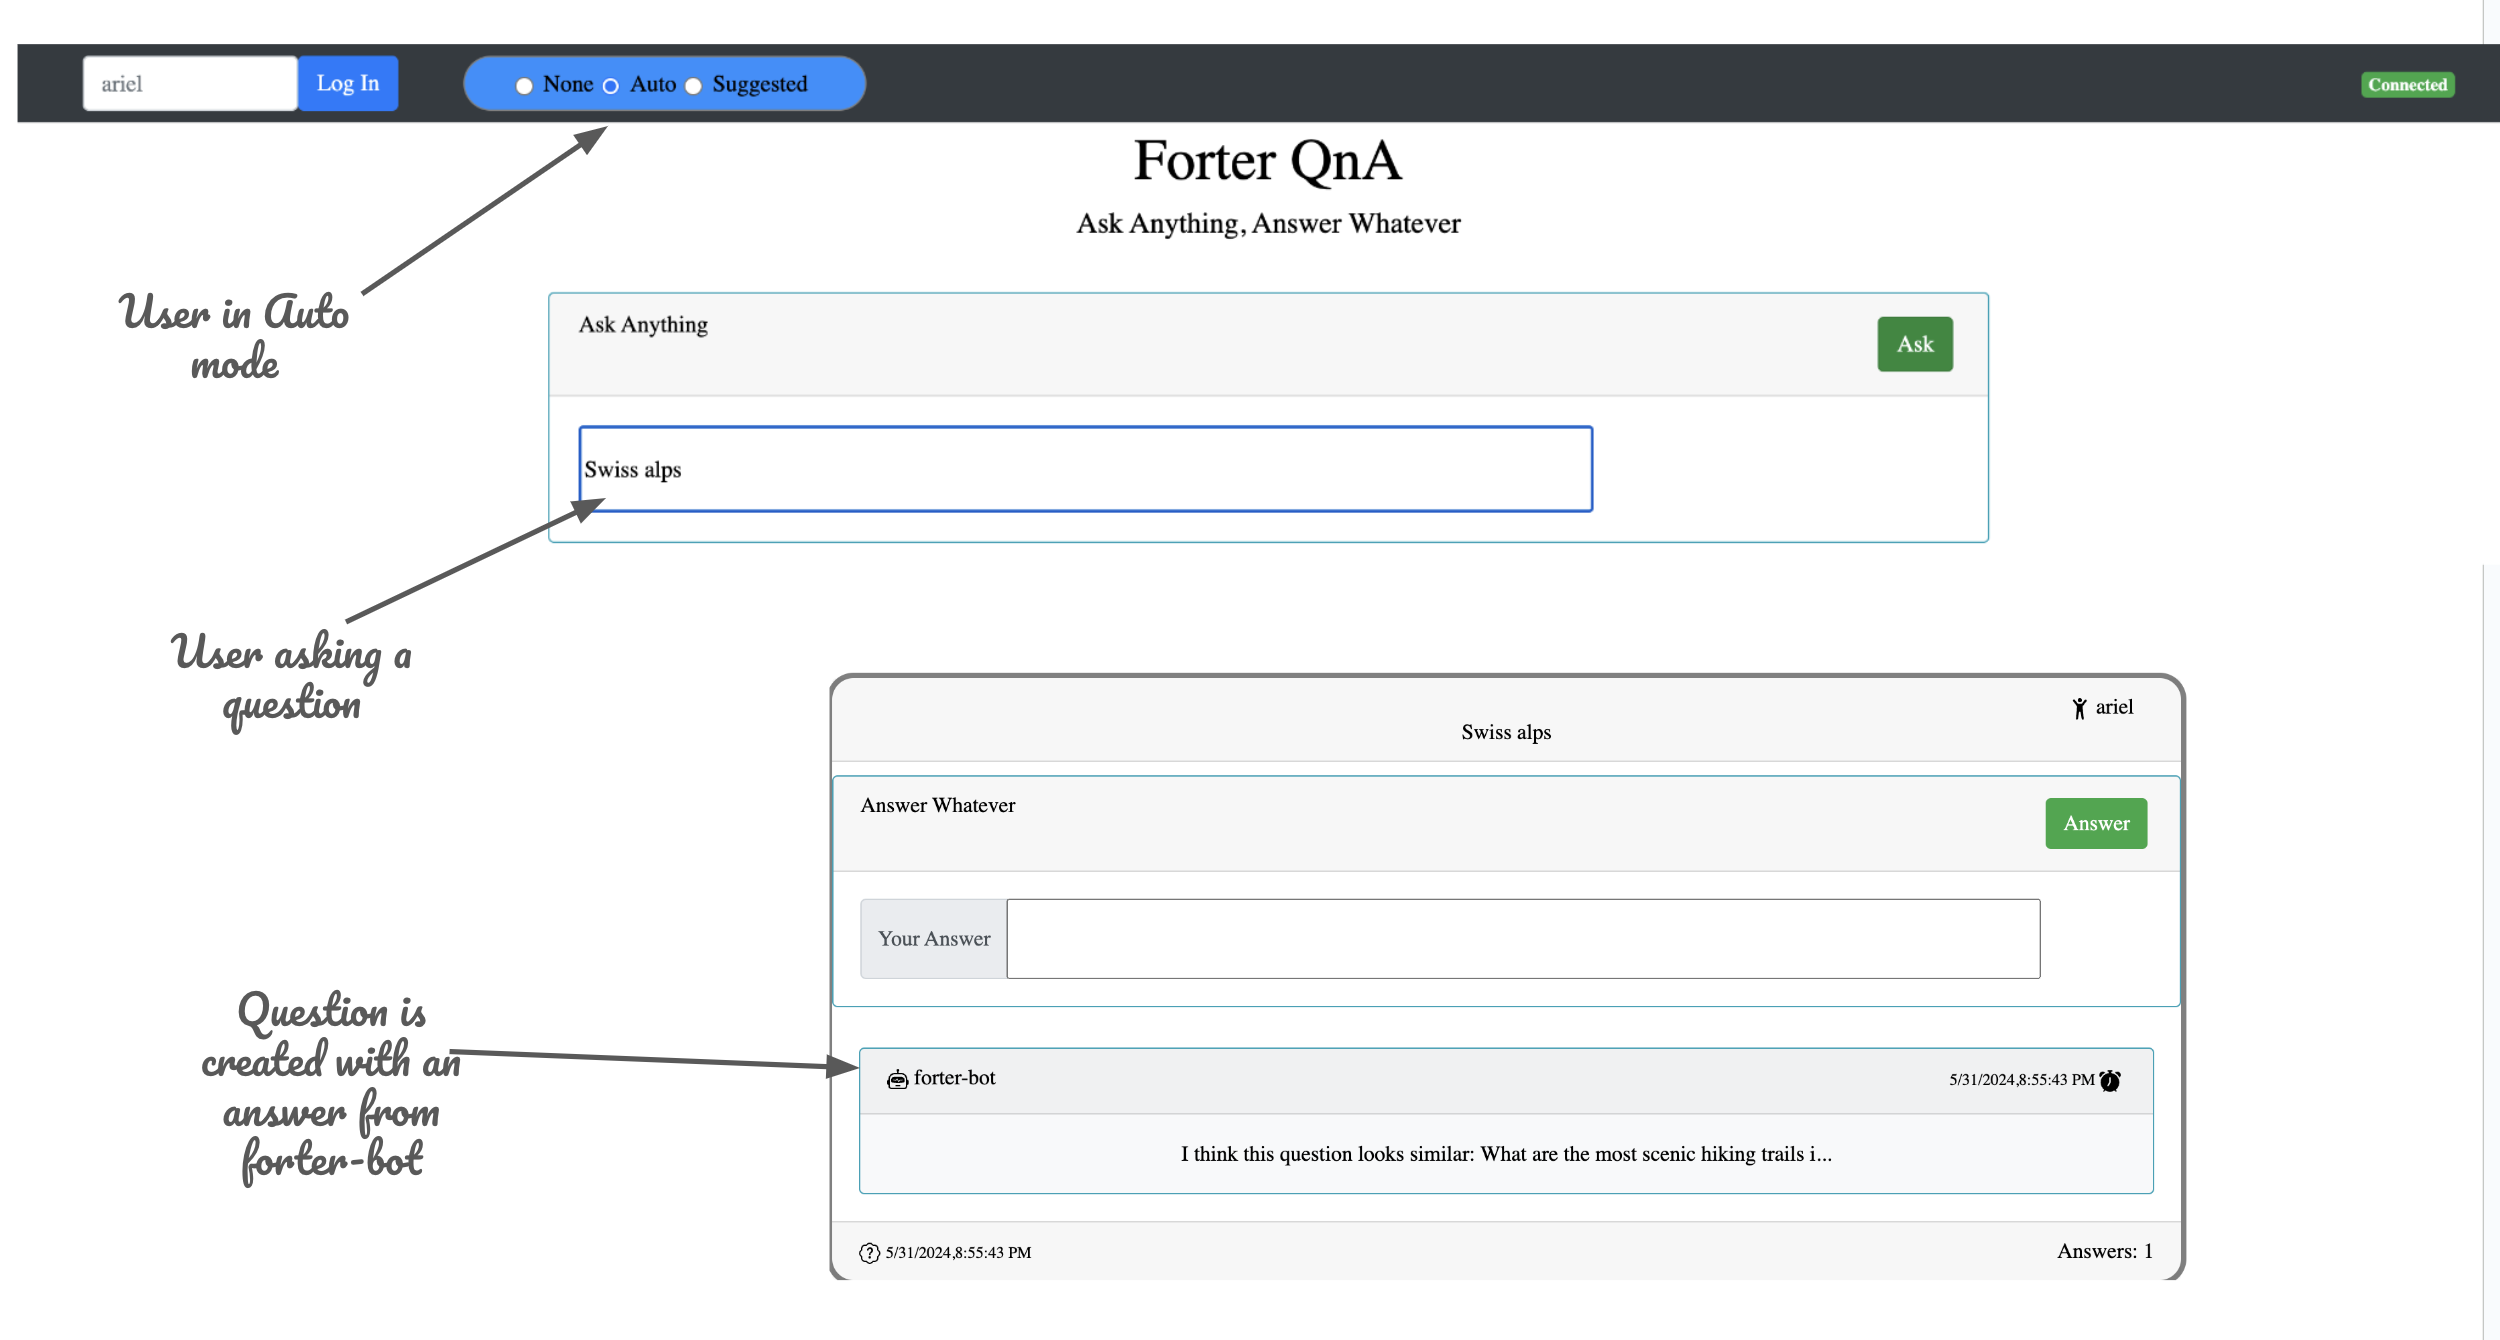
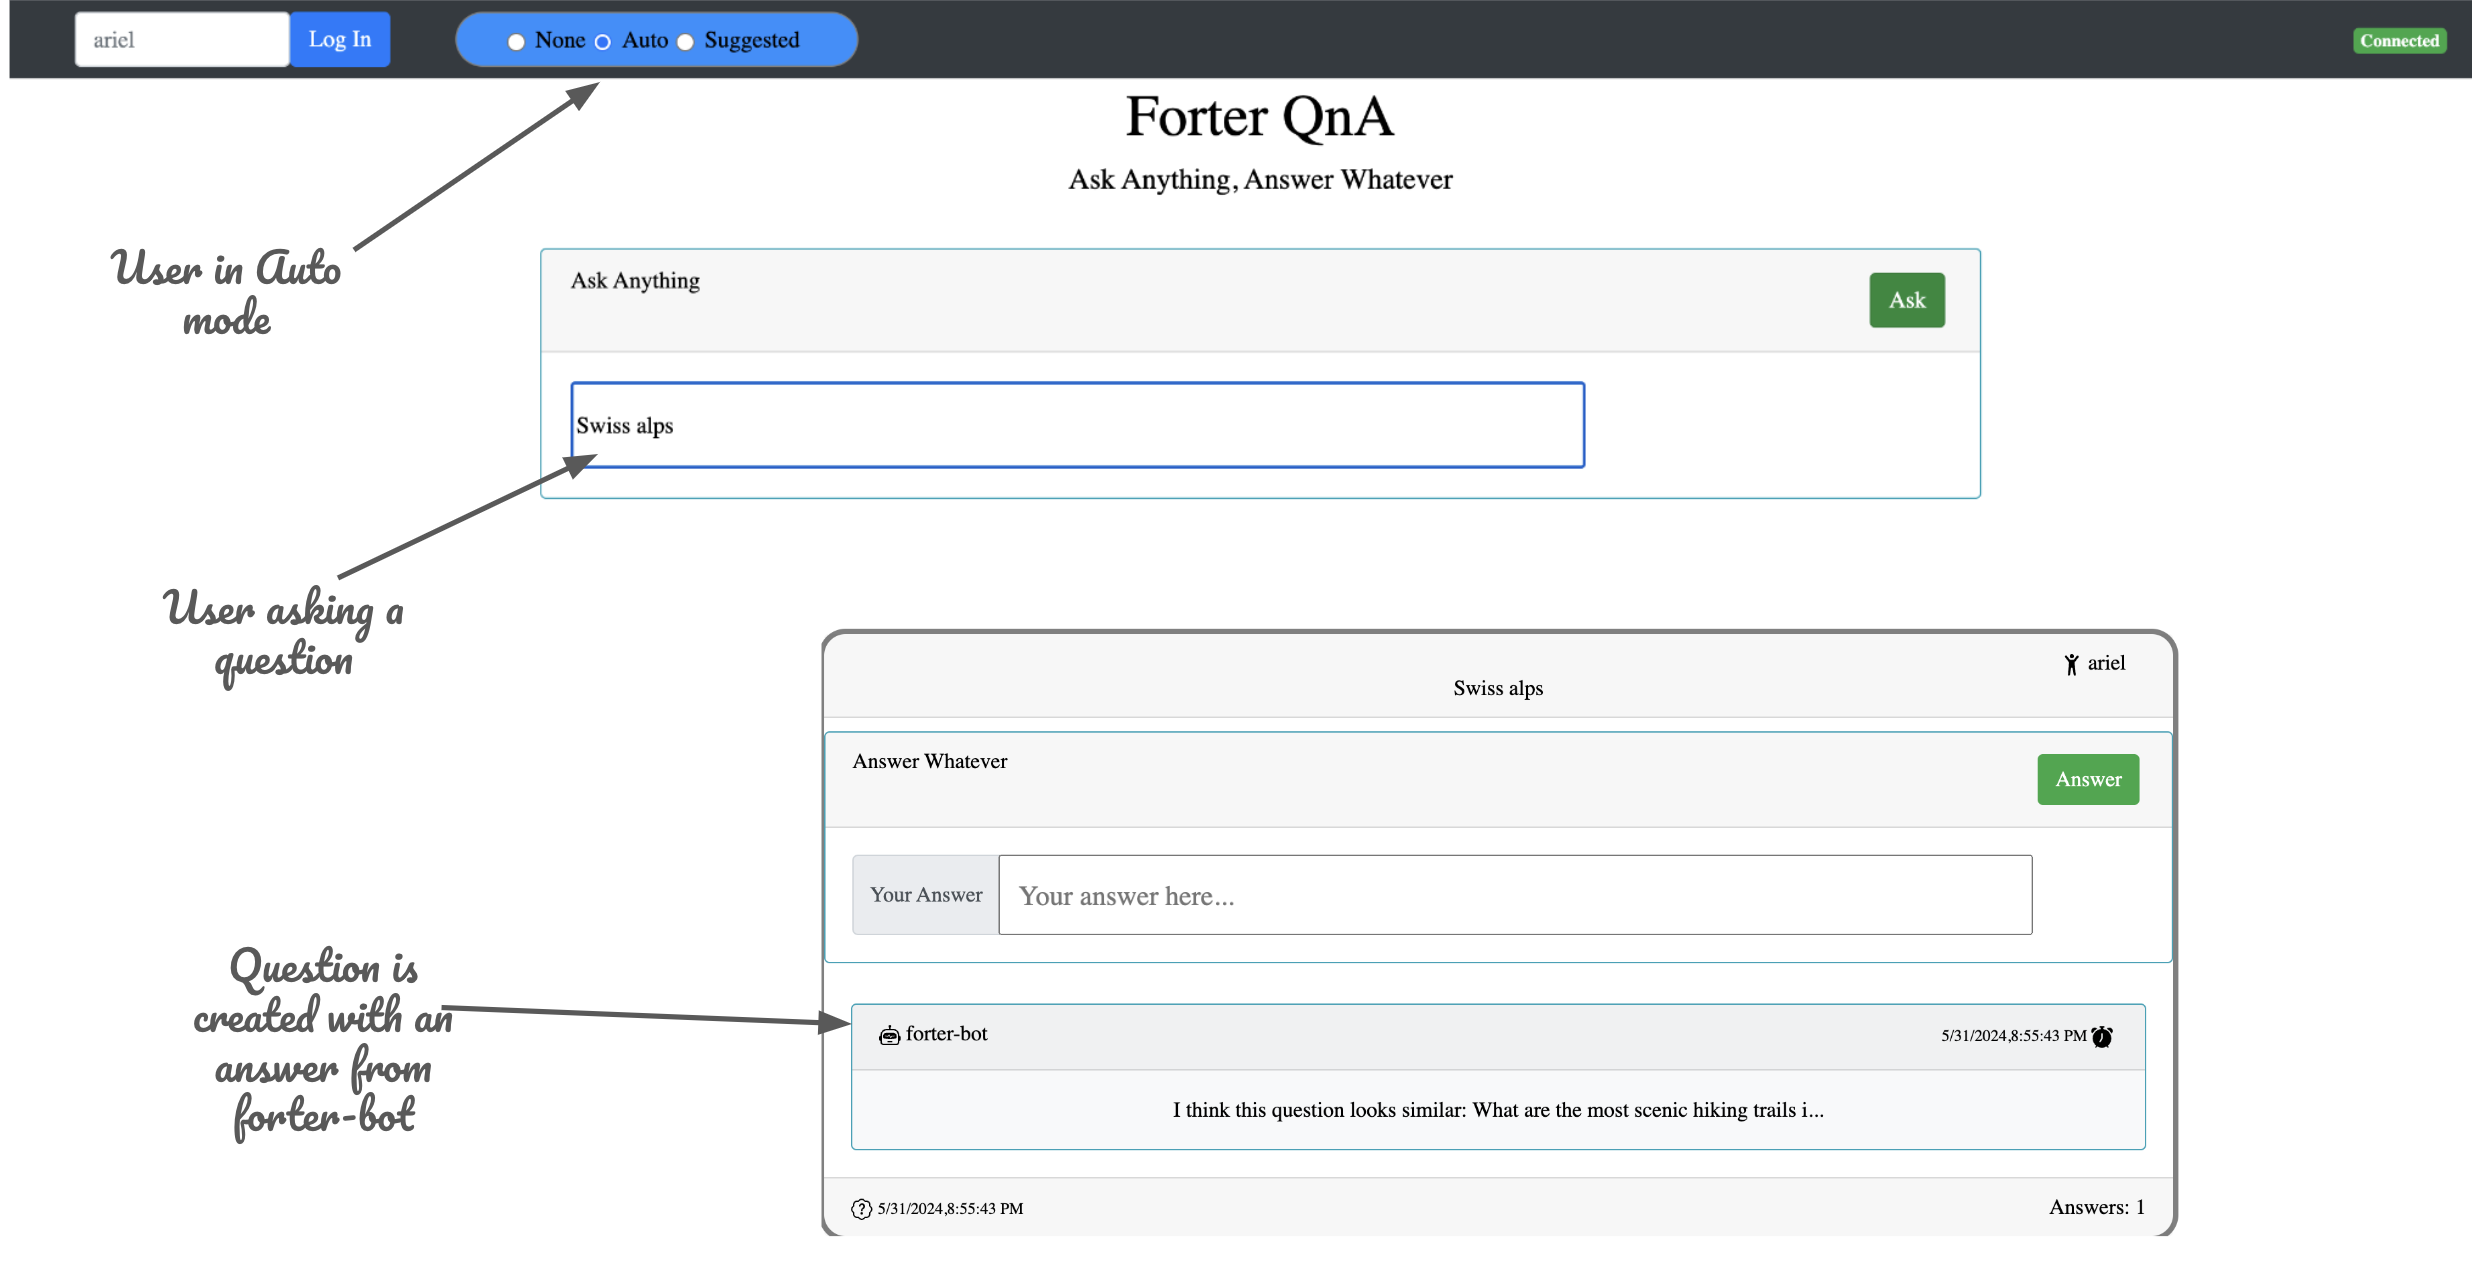
Add placholder and update readme

diff --git a/client/src/components/main-board.js b/client/src/components/main-board.js
@@ -303,6 +303,7 @@ export class MainBoard extends LitElement {
                             <div class="card-body">
                                 <div class="input-group">
                                     <input type="text"
+                                           placeholder="Your question here..."
                                            .value=${this.questionInput}
                                            @input=${this.handleQuestionInputChange}
                                            style="min-width: 700px; min-height: 60px;">

diff --git a/client/src/components/answer-question-card.js b/client/src/components/answer-question-card.js
@@ -61,6 +61,7 @@ export class AnswerQuestionCard extends LitElement {
                             <span class="input-group-text">Your Answer</span>
                         </div>
                         <input type="text"
+                               placeholder="Your answer here..."
                                .value=${this.answerQuestionInput}
                                @input=${this.handleAnswerQuestionInputChange}
                                style="min-width: 80%; min-height: 60px;">
